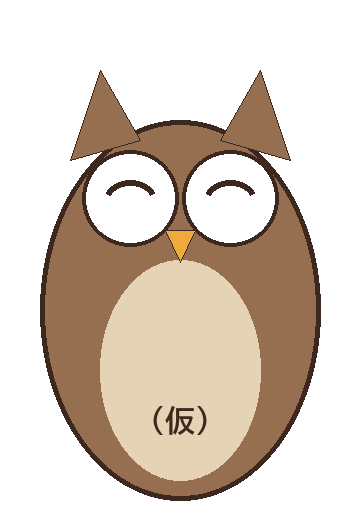
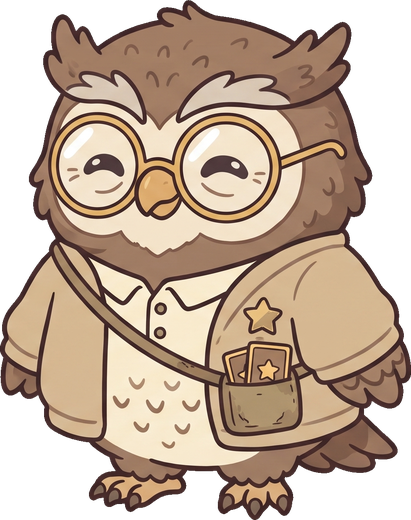
Geminiの絵: ふくろう・ひつじのマスター・喫茶店・夕方の公園（仮の絵を差し替え）

diff --git a/tools/make_art.py b/tools/make_art.py
@@ -10,7 +10,8 @@ from lib4koma import cutout  # noqa: E402
 
 OUT = os.path.join(os.path.dirname(__file__), "..", "art")
 BG = {"home": "kuma_room.jpg", "shop": "shop_playspace.png", "oripa": "shop_oripa.png",
-      "register": "shop_register.jpg", "outside": "shop_outside.jpg", "showcase": "shop_showcase.jpg"}
+      "register": "shop_register.jpg", "outside": "shop_outside.jpg", "showcase": "shop_showcase.jpg",
+      "cafe": "cafe_inside.jpg", "park": "park_evening.jpg"}
 CH = {
     "kuma": "kuma_base", "kuma_pokan": "kuma_pokan", "kuma_unazuki": "kuma_unazuki",
     "kuma_tere": "kuma_tere", "kuma_kandou": "kuma_kandou", "kuma_udegumi": "kuma_udegumi",
@@ -19,9 +20,9 @@ CH = {
     "usagi": "usagi_base", "usagi_setsumei": "usagi_setsumei", "usagi_pokan": "usagi_pokan",
     "usagi_tefuri": "usagi_tefuri", "tanuki": "tanuki_base", "tanuki_nori": "tanuki_nori",
     "kitsune": "kitsune_base", "kitsune_megane": "kitsune_megane",
+    "fukurou": "fukurou_base", "hitsuji": "hitsuji_master",
 }
-PLACEHOLDER = {"cafe": ("喫茶店", (196, 160, 120)), "park": ("夕方の公園", (240, 180, 130)),
-               "park_rain": ("雨あがりの公園", (170, 190, 210))}
+PLACEHOLDER = {}  # 例: {"station": ("駅", (196, 160, 120))}
 FONT = "C:/Windows/Fonts/BIZ-UDGothicB.ttc"
 
 
@@ -61,24 +62,12 @@ for k, (label, col) in PLACEHOLDER.items():
     d.text((360, 250), label, font=f, fill=(255, 255, 255), anchor="mm")
     d.text((360, 310), "（絵は準備中）", font=ImageFont.truetype(FONT, 26), fill=(255, 255, 255), anchor="mm")
     im.save(f"{OUT}/bg/{k}.jpg", quality=86)
+only = [a for a in sys.argv[1:] if not a.startswith("--")]  # 名前を渡すとその立ち絵だけ作る
 for k, f in CH.items():
+    if only and k not in only:
+        continue
     c = cutout(find(f))
     c = c.resize((int(c.width * 520 / c.height), 520), Image.LANCZOS)
     c.save(f"{OUT}/ch/{k}.png")
 print("ok", len(BG), len(CH))
 
-# ふくろうの仮の立ち絵（Gemini の絵ができたら art/ch/fukurou.png を差し替え）
-if not os.path.exists(f"{OUT}/ch/fukurou.png") or "--force" in sys.argv:
-    im = Image.new("RGBA", (360, 520), (0, 0, 0, 0))
-    d = ImageDraw.Draw(im)
-    brown, belly, ink = (150, 110, 80, 255), (230, 210, 180, 255), (60, 40, 30, 255)
-    d.ellipse((40, 120, 320, 500), fill=brown, outline=ink, width=5)
-    d.polygon([(70, 160), (100, 70), (140, 140)], fill=brown, outline=ink)
-    d.polygon([(290, 160), (260, 70), (220, 140)], fill=brown, outline=ink)
-    d.ellipse((100, 260, 260, 480), fill=belly)
-    for cx in (130, 230):
-        d.ellipse((cx - 48, 150, cx + 48, 246), fill=(255, 255, 255, 255), outline=ink, width=4)
-        d.arc((cx - 26, 180, cx + 26, 220), 200, 340, fill=ink, width=6)  # にこにこの目
-    d.polygon([(165, 230), (195, 230), (180, 262)], fill=(240, 170, 60, 255), outline=ink)
-    d.text((180, 420), "（仮）", font=ImageFont.truetype(FONT, 30), fill=ink, anchor="mm")
-    im.save(f"{OUT}/ch/fukurou.png")
